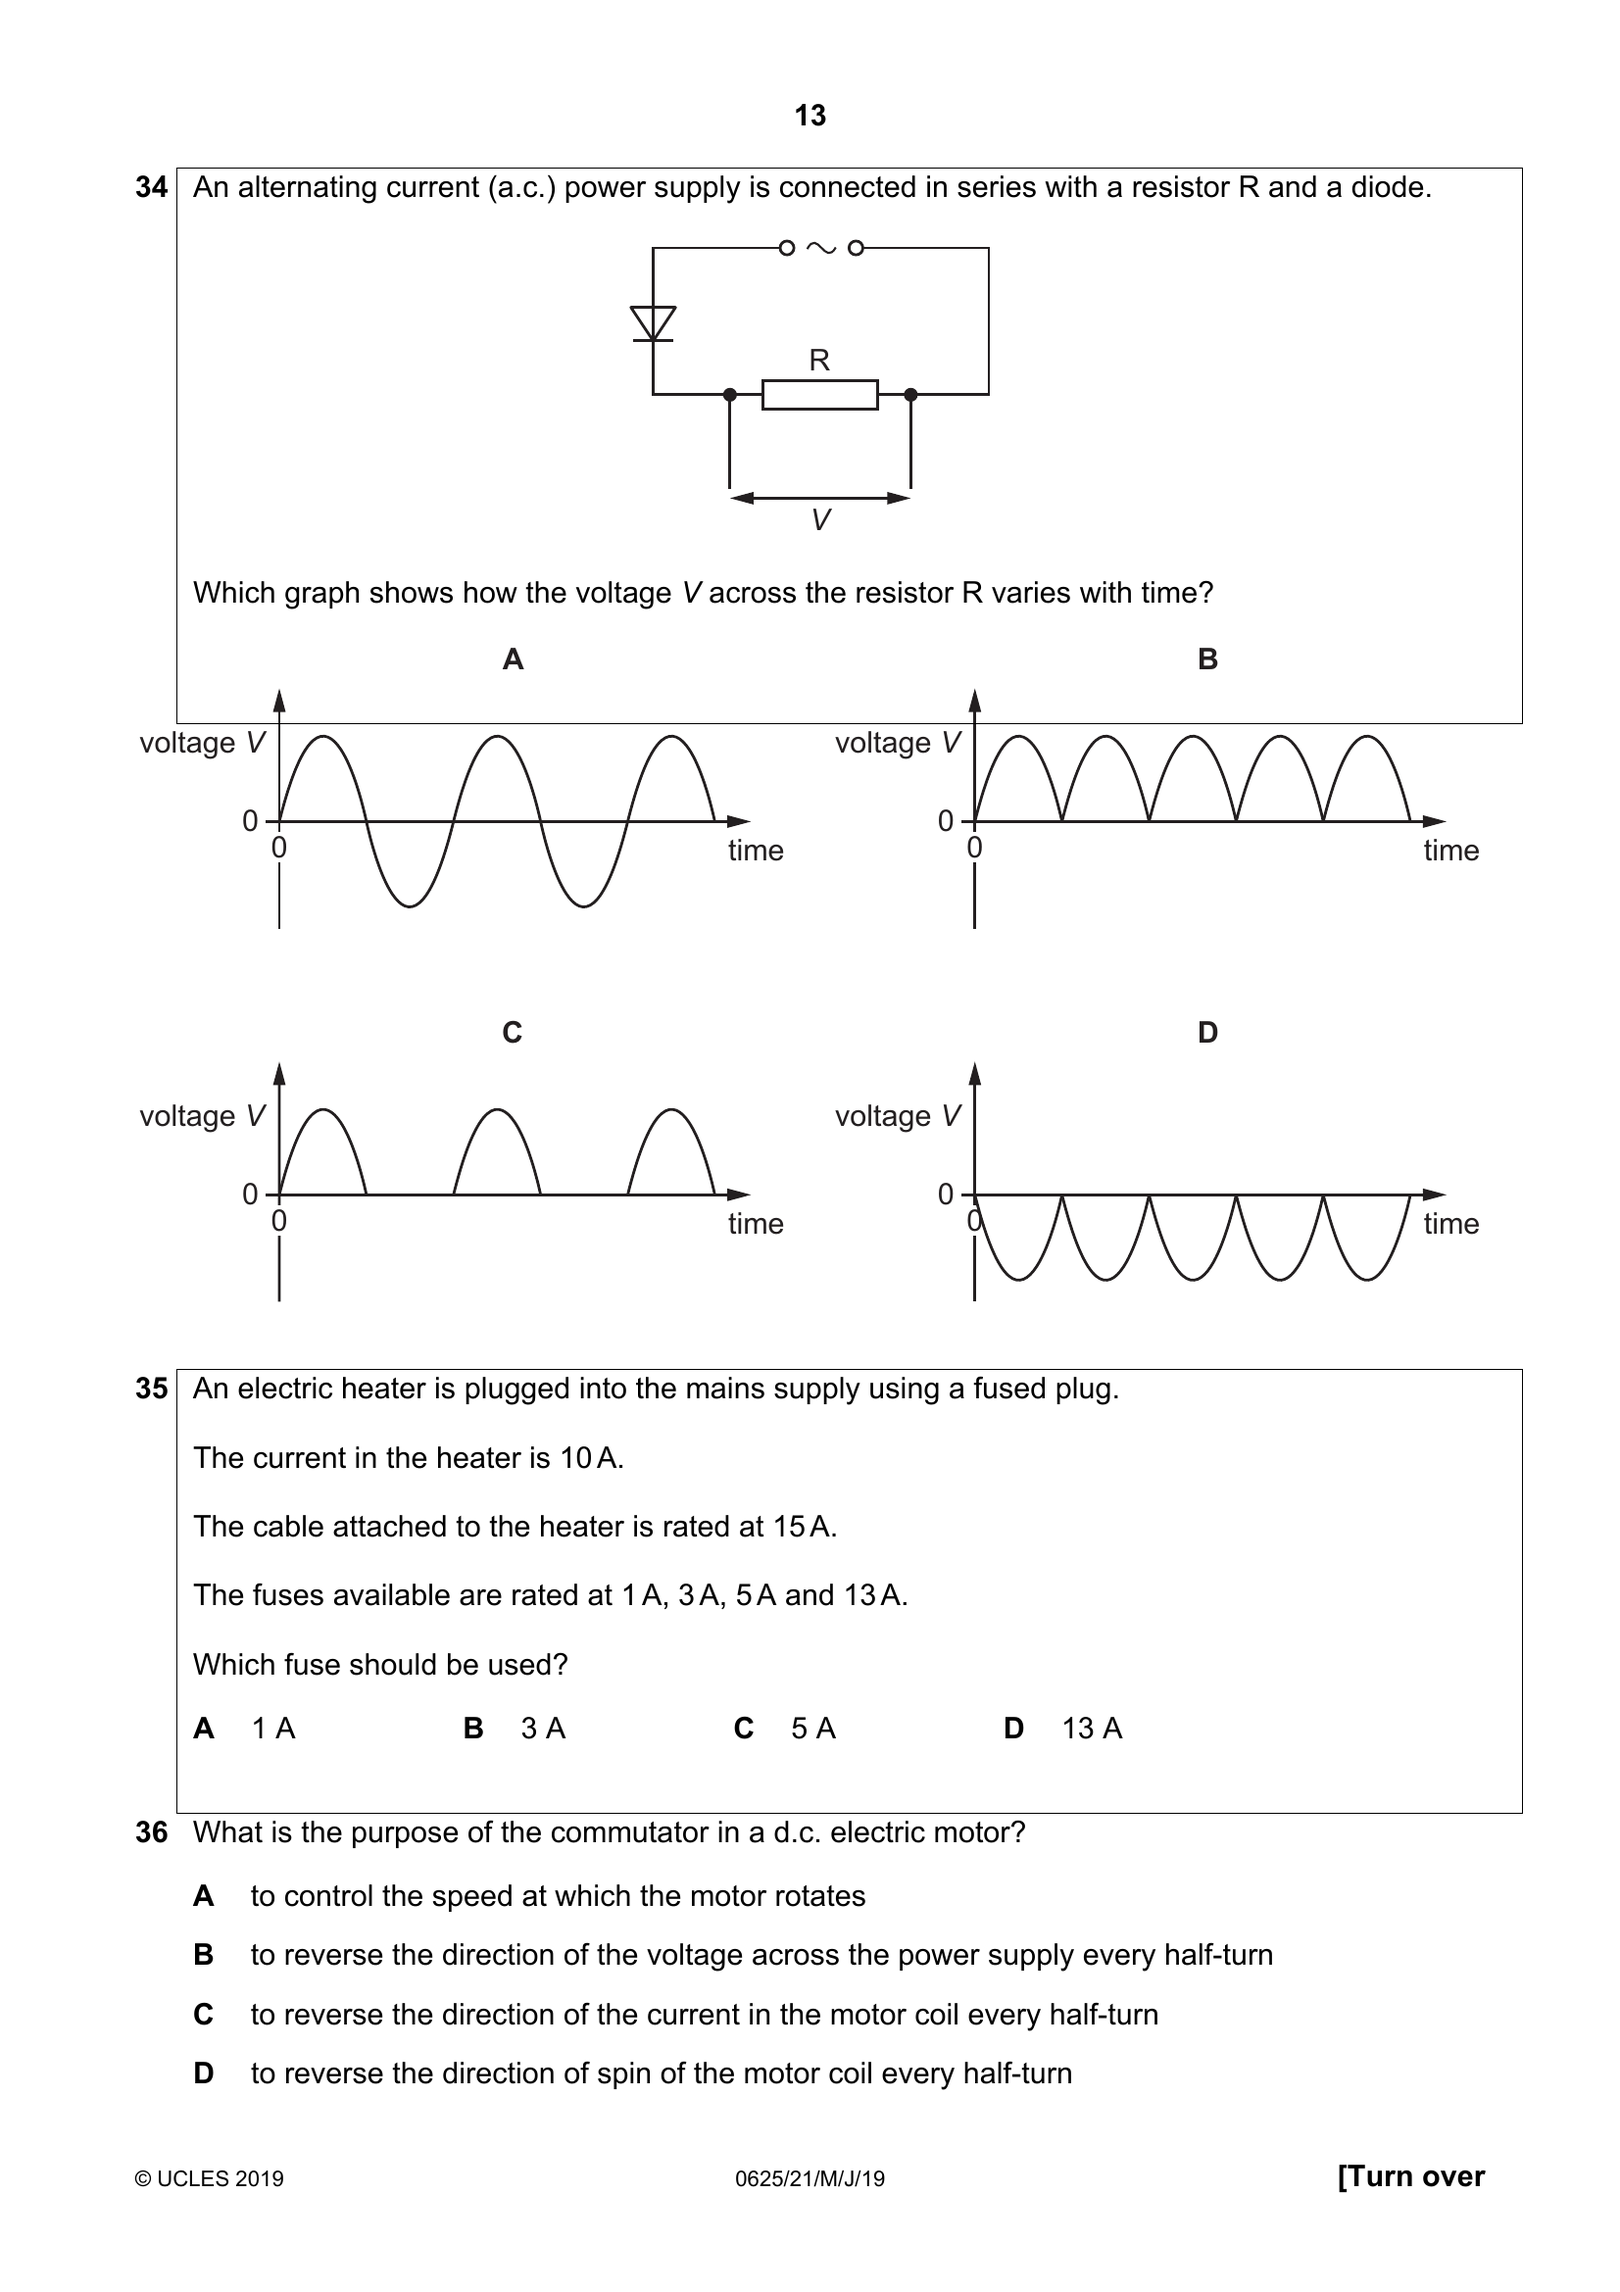
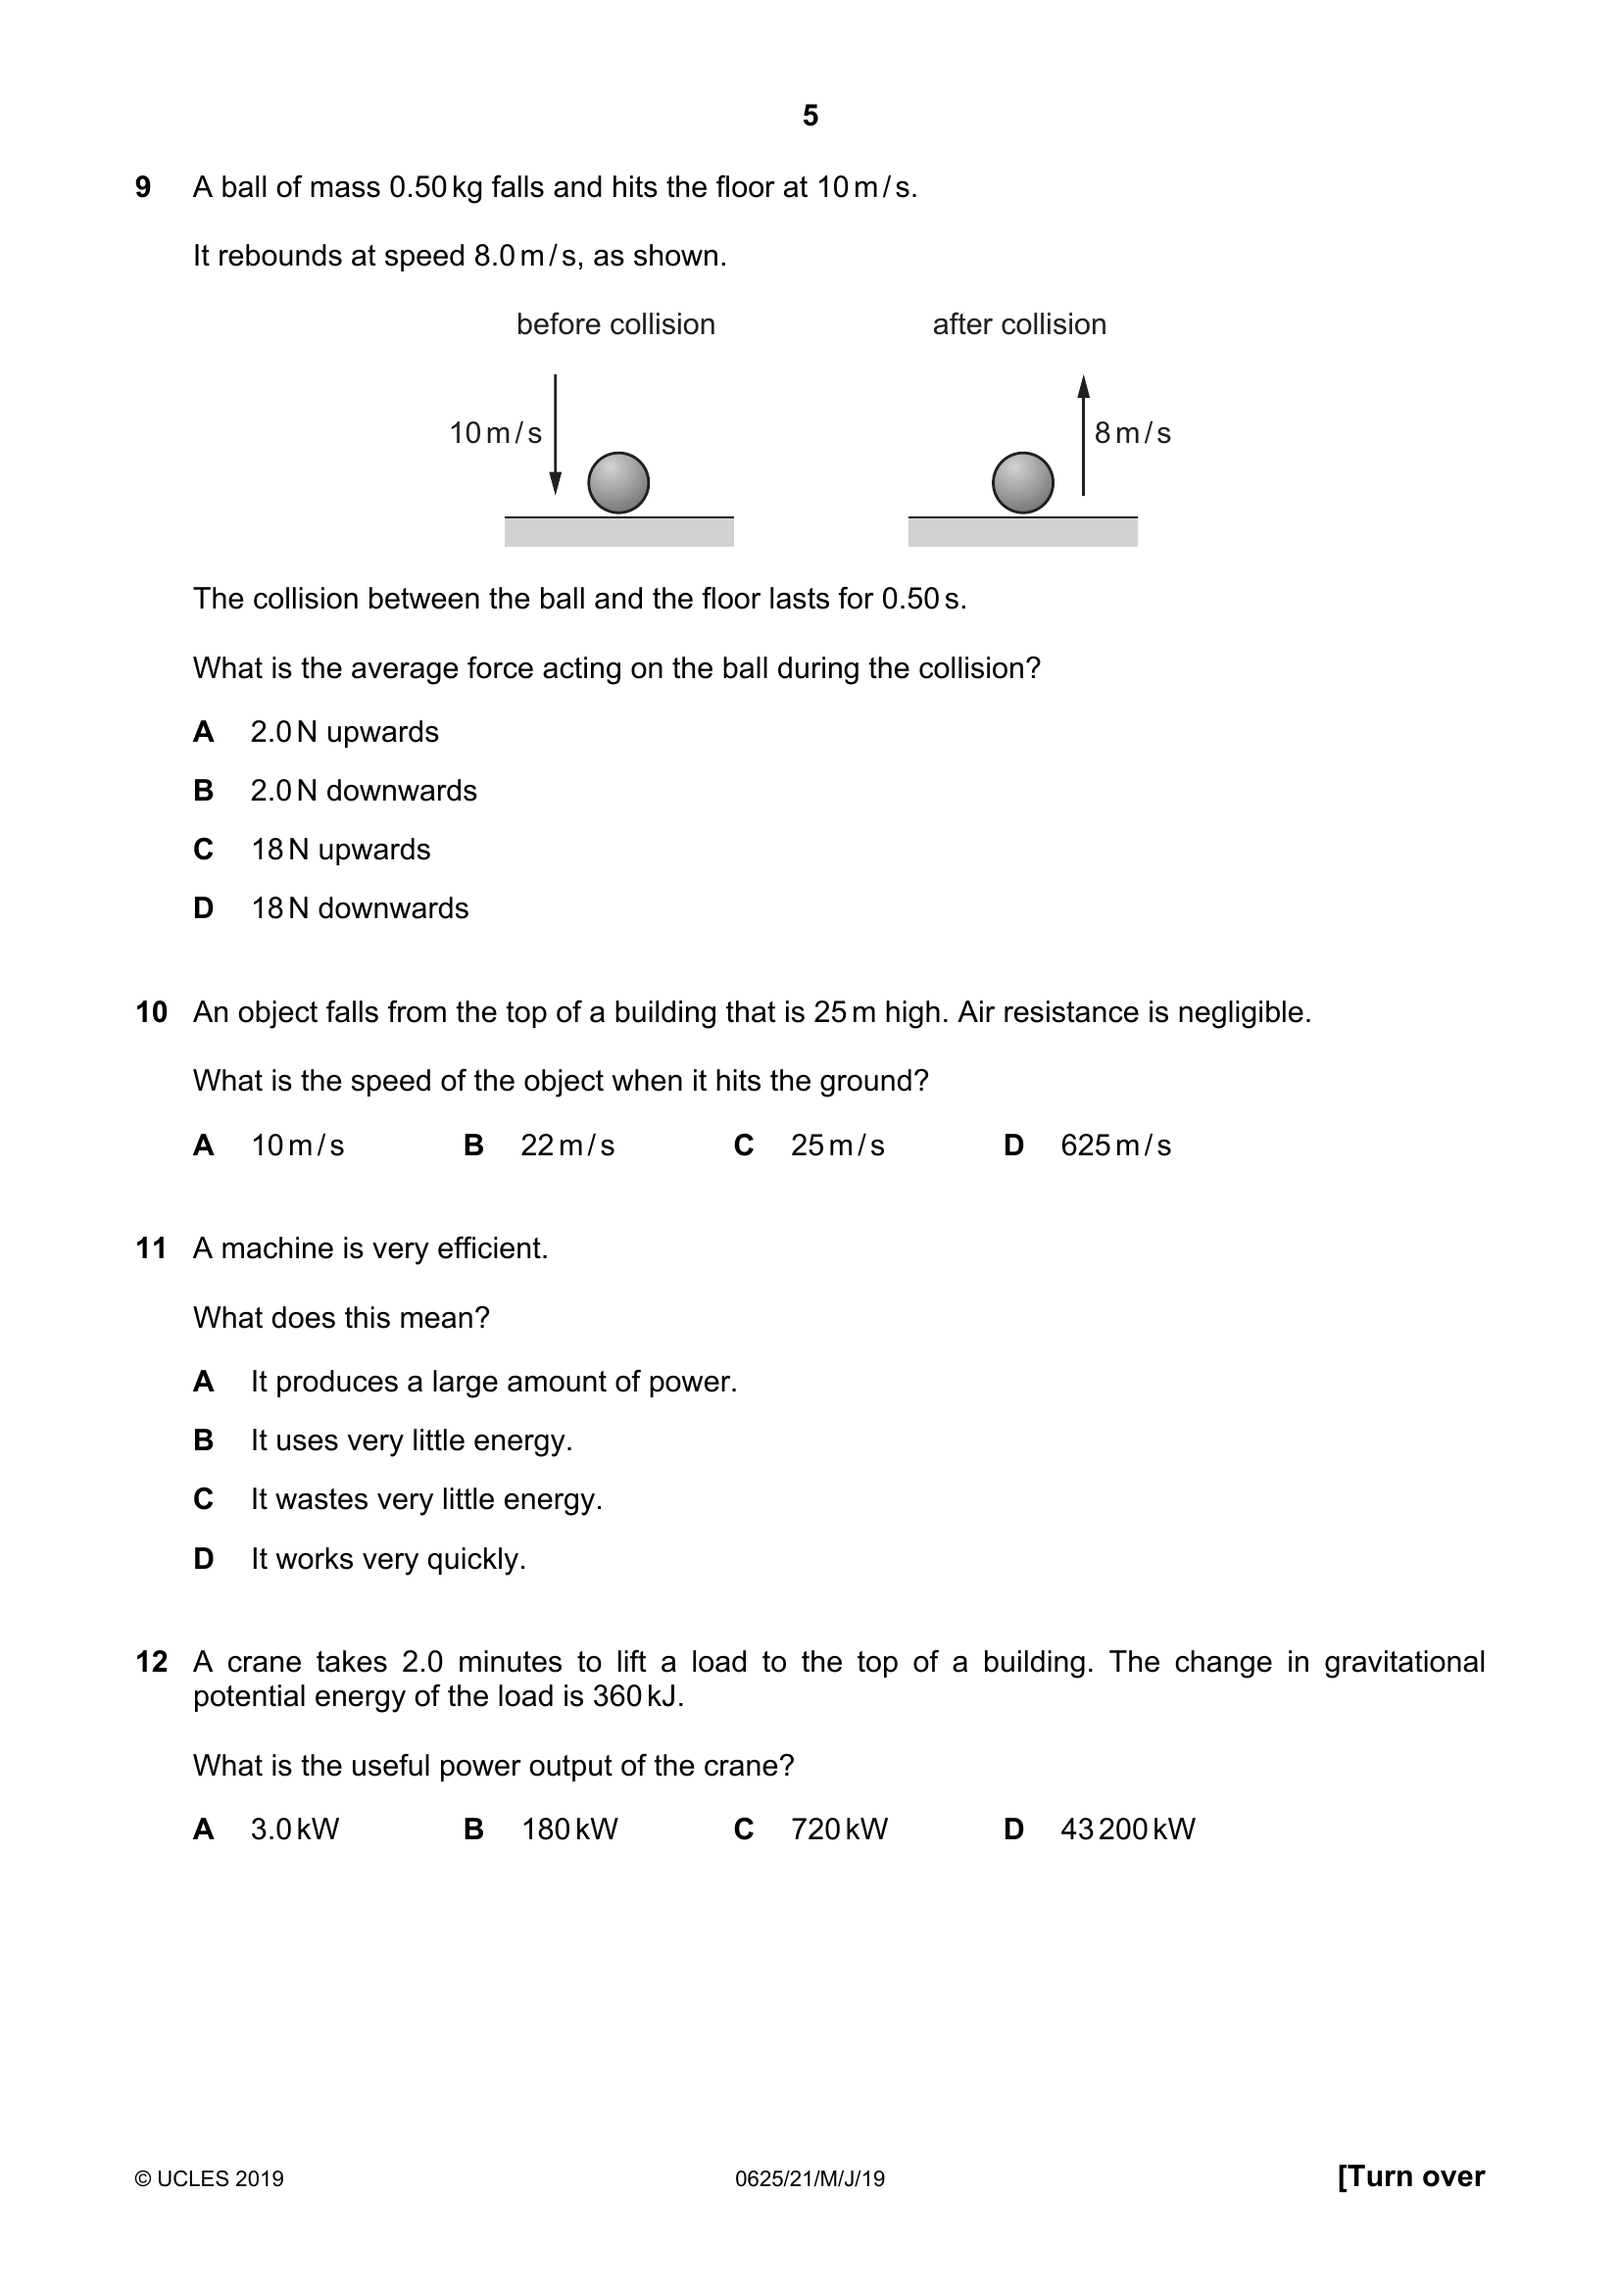
Resolved inability of tesseract to recognise single digits

diff --git a/questionsplitter.py b/questionsplitter.py
@@ -6,56 +6,18 @@ from pdf2image.exceptions import (
 )
 import os
 from PIL import Image, ImageDraw
-from pytesseract import image_to_string
+from pytesseract import image_to_string, image_to_data, Output
 
-cwd = os.getcwd()
-INPUT_FOLDER = os.path.join(cwd,'pdfs/Paper2')
-OUTPUT_FOLDER = os.path.join(cwd,'output/')
-filename = '570011-june-2019-question-paper-21.pdf'
-# open file
-os.chdir(INPUT_FOLDER)
-print('Opening file...')
-pageImages = convert_from_path(filename)
-# select page
-im = pageImages[12]
-# set height and margins of page from example page
-height = im.height
-width = im.width
-rightMargin = 100
-bottomMargin = 125
-top = 0
-left = 0
-qVerticalSep = 20
-right = width-rightMargin
-bottom = height-bottomMargin
-pageBox = (top,left,right,bottom)
-
-numberMargin = 180
-
-leftMarginBox = (0,0,numberMargin,bottom)
-
-'''
-# create output files
-os.chdir(OUTPUT_FOLDER)
-for image in images:
-    image_number = str(images.index(image))
-    file
-    image.save('p'.join(image_number,'.png'))
-    print(image.format)
-    '''
-
-def strips(im,rotate=False, padding=8):
+def strips(im, box, padding=12):
     ''' Finds the horizontal start and end of regions of horizontal non-whitespace.
     Returns a list of tuples giving horizontal start and end of these regions.'''
-    if rotate == True:
-        im = im.rotate(90, expand=True)
-    left = 0
-    right = im.width
-    top = 0
-    bottom = im.height
-    column_tuples = []
+    left = box[0]
+    top = box[1]
+    right = box[2]
+    bottom = box[3]
     white = (255,255,255,255)
     previous = 0
+    column_tuples = []
     for y in range(top,bottom):
         # line is one if any non-white pixels are detected
         current = 0
@@ -68,109 +30,128 @@ def strips(im,rotate=False, padding=8):
             ystart = y-padding
         if current == 0 and previous == 1:
             yend = y+padding
-            if rotate == False:
-                column_tuples.append( (left,ystart,right,yend) )
-            else:
-                column_tuples.append( (ystart, left, yend, bottom) )
+            column_tuples.append( (left,ystart,right,yend) )
         previous = current
     return column_tuples
 
-def getNumberBoxes(im, leftMarginBox):
-    # crop left margin containing question numbers from main image
-    leftMarginImage = im.crop( leftMarginBox )
-    # Get bounding boxes of numbers in left margin
-    textBoundingBoxes = strips( leftMarginImage )
-    n = len(textBoundingBoxes)
+def containsNumber(im, box):
+    image = im.crop(box)
+    captured_string = image_to_string(image, config="--psm 10").strip()
+    print(captured_string)
+    if captured_string.isnumeric():
+        return True
+    else:
+        return False
+
+def getQuestionBoxes(im, numberBoxes, pageBox, qVertSep = 20):
+    qBoxes = []
+    n = len(numberBoxes)
     for i in range(n):
-    print('Question: ',i+1)
-    box = textBoundingBoxes[i]
-    if i < n:
-        nextBox = textBoundingBoxes[i+1]
-    else:
-        nextBox = None
-    # For each question number retrieved question bounding box
-    qnumber_image = im.crop(box)
-    # convert image to text with tesseract OCR and strip whitespace
-    captured_string = image_to_string(qnumber_image).strip()
-    # ignore non-numerical text and non-consecutive numbers
-    if not( captured_string.isnumeric() ):
-        continue
-    return textBoundingBoxes
-
-def getQuestionBoxes(im, numberBoxes, pageBox, qVertSep = 20)
-n = len(textBoundingBoxes)
-for i in range(n):
-    print('Question: ',i+1)
-    box = textBoundingBoxes[i]
-    if i < n:
-        nextBox = textBoundingBoxes[i+1]
-    else:
-        nextBox = None
-    # For each question number retrieved question bounding box
-    qnumber_image = im.crop(box)
-    # convert image to text with tesseract OCR and strip whitespace
-    captured_string = image_to_string(qnumber_image).strip()
-    # ignore non-numerical text and non-consecutive numbers
-    if not( captured_string.isnumeric() ):
-        continue
-    print(captured_string.strip(), captured_string.strip().isnumeric() )
-    # determine bounding box of question from vertical position of question number
-    # left edge is right edge of number box
-    qleft = numberMargin
-    qright = right
-    qtop = box[1]
-    if nextBox:
-        qbottom = nextBox[1]
-    else:
-        qbottom = bottomMargin
-    qBox = (qleft,qtop,qright,qbottom)
-    print(qBox)
-    draw.rectangle(qBox, outline='black')
-os.chdir(OUTPUT_FOLDER)
-im.save('p.png')
-
-'''
-    # crop image to bounding box
-    im = im.crop( boundingBox )
-    # get x coords of strips, select question number strip
-    numberColumn = strips(im, False)[0]
-    # crop out the question numbers
-    numColImage = im.crop( numberColumn )
-    numberStrips = strips(numColImage, True)
-    questionBoxes = []
-    cropped_images = []
-
-    n = len(numberStrips)
-    for i in range(n):
-        qleft = numberColumn[2]+left
-        qtop = numberStrips[i][1]
-        qright = right
-        # check for last question
-        if numberStrips[i] == numberStrips[-1]:
-            qbottom = bottom
+        thisNumBox = numberBoxes[i]
+        if i < (n-1):
+            nextNumBox = numberBoxes[i+1]
         else:
-            qbottom = numberStrips[i+1][1] - qVerticalSep
+            nextNumBox = None
+        # determine bounding box of question from vertical position of question number
+        # left edge is right edge of number box
+        qleft = pageBox[0]
+        qright = pageBox[2]
+        qtop = thisNumBox[1]
+        if nextNumBox:
+            qbottom = nextNumBox[1]
+        else:
+            qbottom = pageBox[3]
+        qBox = (qleft,qtop,qright,qbottom-qVertSep)
+        qBoxes.append(qBox)
+    return qBoxes
 
-        # Add bounding boxes of questions to list
-        bbox = (qleft,qtop,qright,qbottom)
-
-        # get rid of bottom whitespace
-        cropped = im.crop(bbox)
-        vertical_end = strips( cropped, True )[-1][3]
-        new_bbox = (qleft+leftquestion,qtop,qright-rightquestion,qtop+vertical_end)
-        questionBoxes.append( new_bbox )
-    return questionBoxes
-
-# output folder
-os.chdir(OUTPUT_FOLDER)
-# ignore cover page
-pageImages.remove( pageImages[0] )
-num = len(pageImages)
-for pageImage in pageImages:
-    n = pageImages.index(pageImage)
-    boxes = getBoundingBoxes(pageImage,pageBox)
-    draw = ImageDraw.Draw(pageImage)
-    for box in boxes:
-        draw.rectangle( box , outline='black')
-    pageImage.save( 'p_{}.png'.format(n) )
+def main():
+    # Define path variables
+    cwd = os.getcwd()
+    INPUT_FOLDER = os.path.join(cwd,'pdfs/Paper2')
+    OUTPUT_FOLDER = os.path.join(cwd,'output/')
+    filename = '570011-june-2019-question-paper-21.pdf'
+    # open file
+    os.chdir(INPUT_FOLDER)
+    print('Opening file...',INPUT_FOLDER,filename)
+    pageImages = convert_from_path(filename)
+    # select page
+    im = pageImages[12]
+    # set height and margins of page from example page
+    height = im.height
+    width = im.width
+    rightMargin = 100
+    bottomMargin = 125
+    topMargin = 0
+    numberWidth = 70
+    leftMargin = 115
+    numberColumn = (leftMargin,topMargin,leftMargin+numberWidth,im.height-bottomMargin)
+    pageBox = (leftMargin, topMargin, im.width-rightMargin, im.height-bottomMargin)
+    textBoundingBoxes = strips( im,numberColumn )
+    draw = ImageDraw.Draw(im)
+    draw.rectangle( pageBox )
+    draw.rectangle( numberColumn )
+    for box in textBoundingBoxes:
+        print(box)
+        if containsNumber(im, box):
+            draw.rectangle( box, outline = 'black' )
+        else:
+            draw.rectangle( box, outline = 'red' )
+    os.chdir(OUTPUT_FOLDER)
+    im.save('poo.png')
+    '''
+    print(textBoundingBoxes)
+    # get bounding boxes of numbers from page
+    numBoxes = getNumberBoxes(im, numberColumn)
+    drawBoxes(im, numBoxes)
+    draw = ImageDraw.Draw(im)
+    # get bounding boxes of questions using number positions
+    qBoxes = getQuestionBoxes(im,numBoxes,pageBox)
+    drawBoxes(im, qBoxes)
+    print(qBoxes)
+    for qBox in qBoxes:
+        draw.rectangle(qBox, outline='black')
+        qImage = im.crop(qBox)
+        string = image_to_string(qImage)
+        print(string)
+    os.chdir(OUTPUT_FOLDER)
+    im.save('p.png')
 '''
+def justTessTry():
+    '''A failed attempt to use just tesseract to get bounding boxes of numbers'''
+   # Define path variables
+    cwd = os.getcwd()
+    INPUT_FOLDER = os.path.join(cwd,'pdfs/Paper2')
+    OUTPUT_FOLDER = os.path.join(cwd,'output/')
+    filename = '570011-june-2019-question-paper-21.pdf'
+    # open file
+    os.chdir(INPUT_FOLDER)
+    print('Opening file...',INPUT_FOLDER,filename)
+    pageImages = convert_from_path(filename)
+    # select page
+    im = pageImages[12]
+    # set height and margins of page from example page
+    height = im.height
+    width = im.width
+    rightMargin = 100
+    bottomMargin = 125
+    top = 0
+    left = 0
+    qVerticalSep = 20
+    right = width-rightMargin
+    bottom = height-bottomMargin
+    pageBox = (top,left,right,bottom)
+    numberMargin = 180
+    leftMarginBox = (0,0,numberMargin,bottom)
+    imMargin = im.crop( leftMarginBox )
+    # get data from image using pytesseract
+    d = image_to_data(imMargin, output_type=Output.DICT)
+    n_boxes = len(d['level'])
+    draw = ImageDraw.Draw(im)
+    for i in range(n_boxes):
+        box = (d['left'][i], d['top'][i], d['width'][i], d['height'][i])
+        draw.rectangle(box, outline='black')
+    im.save('tess.png')
+
+if __name__ == "__main__":
+    main()
